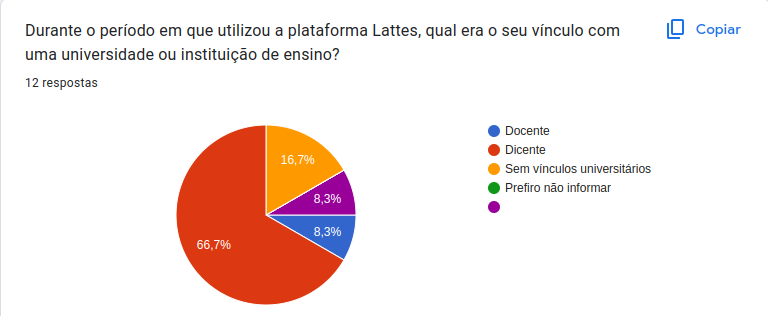
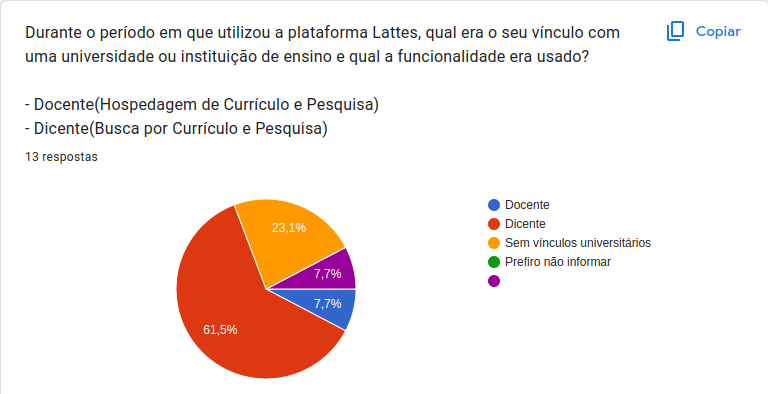
docs: Adicionando vinculo atualizado

diff --git a/docs/Análise de Requisitos/08-perfil-de-usuario.md b/docs/Análise de Requisitos/08-perfil-de-usuario.md
@@ -76,7 +76,7 @@ Pergunta feita para coletar a avaliação do usuário de acordo com o acesso a p
 </div>
 
 #### **Vinculo com a instituição de ensino**
-Pergunta feita para aferir qual o vinculo do usuário com a sua respectiva unidade de ensino quando respondeu o formulário
+Pergunta feita para aferir qual o vinculo do usuário e o seu uso durante o vinculo correspondente com a sua respectiva unidade de ensino quando respondeu o formulário.
 
 <div align="center">
     <img src="https://raw.githubusercontent.com/Interacao-Humano-Computador/2023.2-PlataformaLattes/main/docs/An%C3%A1lise%20de%20Requisitos/assets/QueVinculo.png" style="width:60vw"/>
